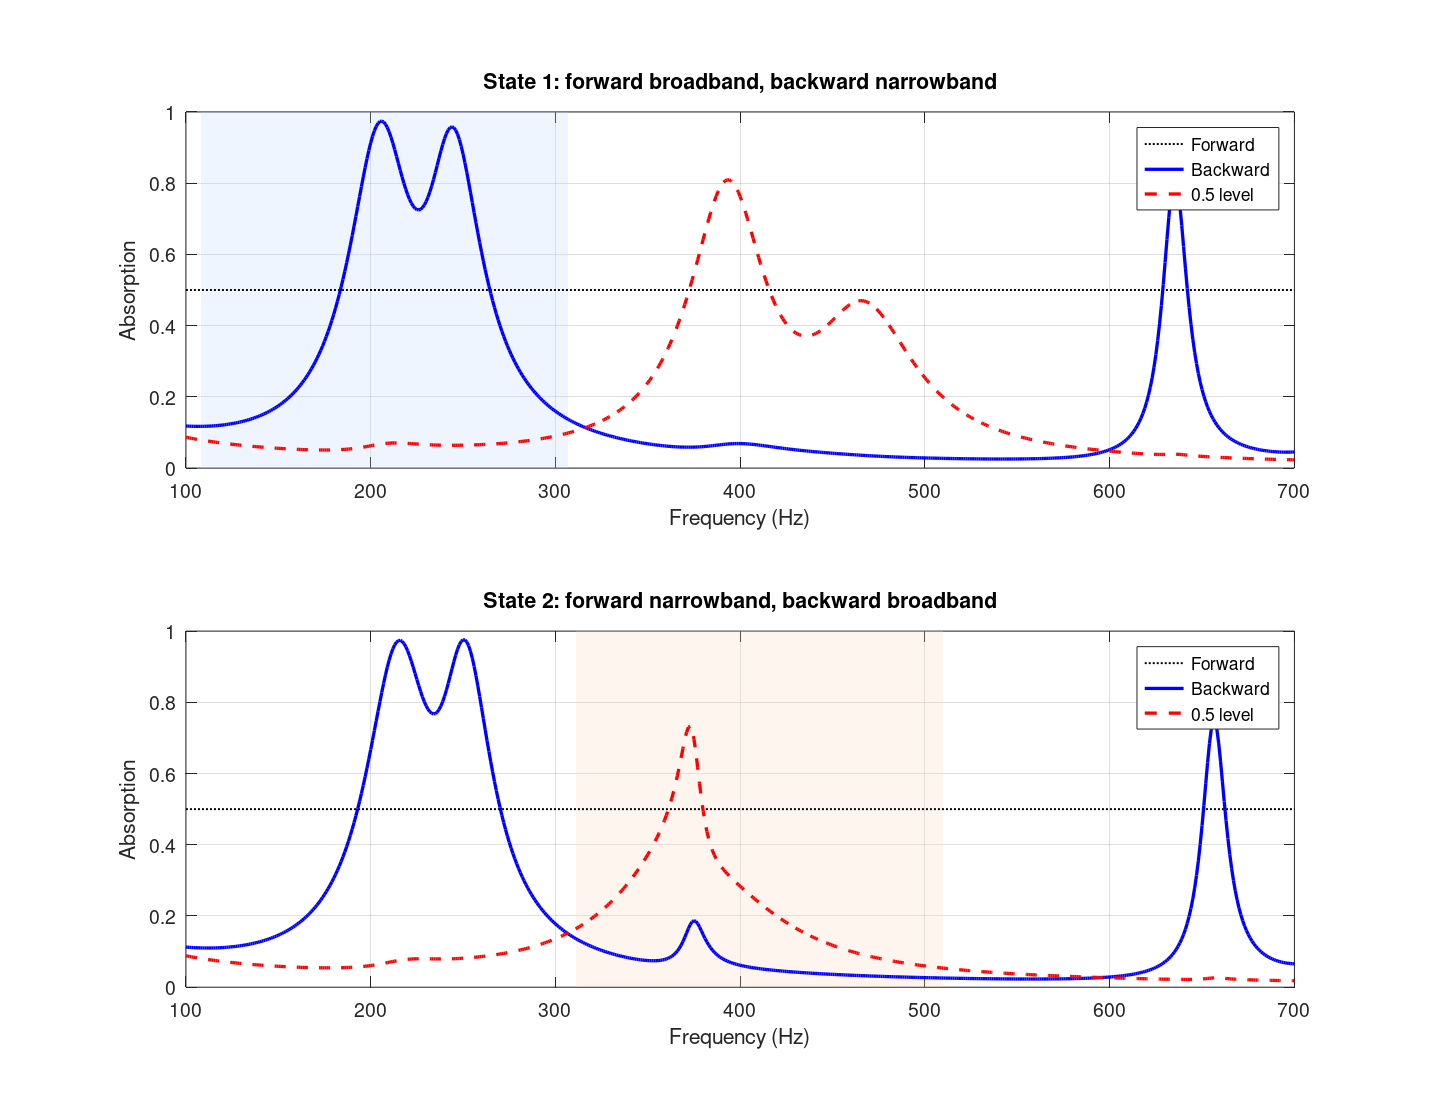
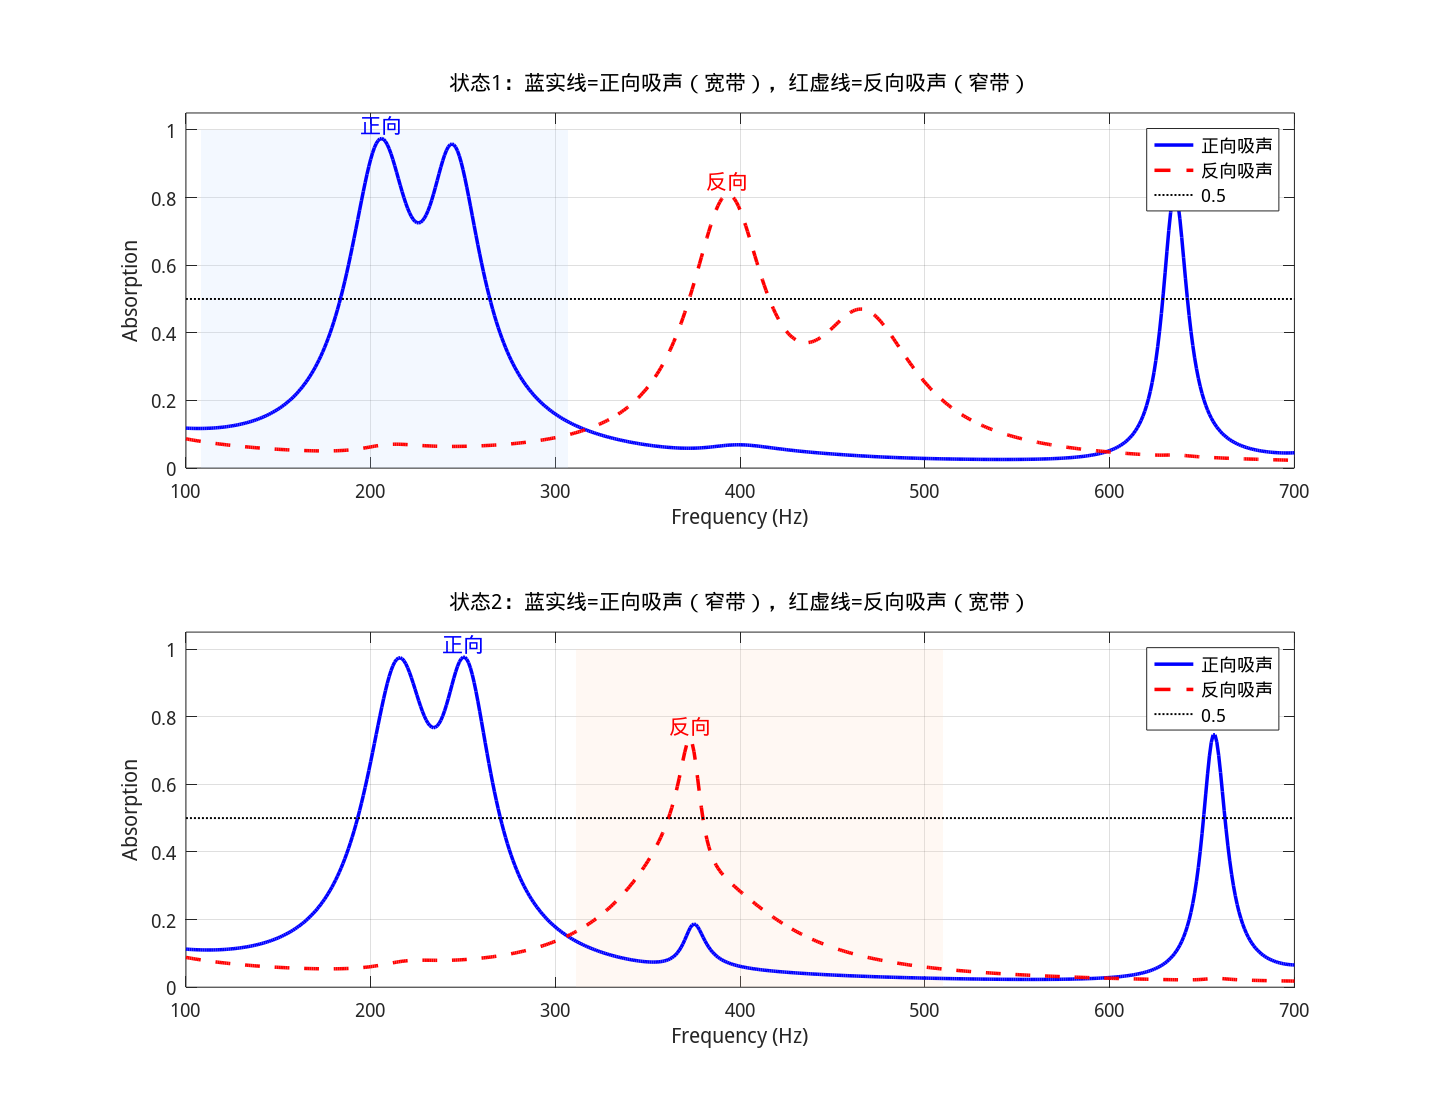
Bind each absorption curve to its own legend entry.
The bandwidth figure now labels the solid blue line as forward absorption and the dashed red line as backward absorption, with the peak of each curve marked on the trace.

diff --git a/acoustic_nn/dual_mlp_two_state.m b/acoustic_nn/dual_mlp_two_state.m
@@ -270,30 +270,30 @@ plotState(fPlot, af2, ab2, extra2, '(2) 300-500 Hz 反向高出 0.4');
 
 fig = figure('Color', 'w', 'Position', [120, 40, 980, 760]);
 subplot(2, 1, 1);
-plot(fPlot, af1, 'b-', 'LineWidth', 1.7);
 hold on;
-plot(fPlot, ab1, 'r--', 'LineWidth', 1.7);
 markBand();
+hF = plot(fPlot, af1, 'b-', 'LineWidth', 1.7);
+hB = plot(fPlot, ab1, 'r--', 'LineWidth', 1.7);
 grid on;
 box on;
 xlabel('Frequency (Hz)');
 ylabel('Absorption');
 xlim([fPlot(1), fPlot(end)]);
-title('(a) State 1, forward mean exceeds backward by 0.4');
-legend('Forward', 'Backward', 'Location', 'best');
+title('状态1：蓝实线=正向吸声，红虚线=反向吸声');
+legend([hF, hB], {'正向吸声', '反向吸声'}, 'Location', 'northeast');
 
 subplot(2, 1, 2);
-plot(fPlot, af2, 'b-', 'LineWidth', 1.7);
 hold on;
-plot(fPlot, ab2, 'r--', 'LineWidth', 1.7);
 markBand();
+hF = plot(fPlot, af2, 'b-', 'LineWidth', 1.7);
+hB = plot(fPlot, ab2, 'r--', 'LineWidth', 1.7);
 grid on;
 box on;
 xlabel('Frequency (Hz)');
 ylabel('Absorption');
 xlim([fPlot(1), fPlot(end)]);
-title('(b) State 2, backward mean exceeds forward by 0.4');
-legend('Forward', 'Backward', 'Location', 'best');
+title('状态2：蓝实线=正向吸声，红虚线=反向吸声');
+legend([hF, hB], {'正向吸声', '反向吸声'}, 'Location', 'northeast');
 
 figPath = fullfile(outDir, 'two_state_absorption.png');
 try
@@ -782,39 +782,45 @@ fprintf('状态 2 腔深 (mm)，正向窄带、反向宽带\n');
 disp(reshape(hBest2, 2, 4).' * 1e3);
 
 fig = figure('Color', 'w', 'Position', [80, 40, 980, 760]);
+if exist('OCTAVE_VERSION', 'builtin')
+    set(fig, 'defaultaxesfontname', 'WenQuanYi Micro Hei');
+    set(fig, 'defaulttextfontname', 'WenQuanYi Micro Hei');
+end
 subplot(2, 1, 1);
-plot(fPlot, af1, 'b-', 'LineWidth', 1.7);
 hold on;
-plot(fPlot, ab1, 'r--', 'LineWidth', 1.7);
-plot(fPlot([1, end]), [0.5, 0.5], 'k:', 'LineWidth', 1.0);
 patch([fLo1, fHi1, fHi1, fLo1], [0, 0, 1, 1], [0.75, 0.85, 1], ...
-    'FaceAlpha', 0.25, 'EdgeColor', 'none', 'HandleVisibility', 'off');
-children = get(gca, 'Children');
-set(gca, 'Children', [children(2:end); children(1)]);
+    'FaceAlpha', 0.18, 'EdgeColor', 'none', 'HandleVisibility', 'off');
+hF1 = plot(fPlot, af1, 'b-', 'LineWidth', 1.8);
+hB1 = plot(fPlot, ab1, 'r--', 'LineWidth', 1.8);
+hL1 = plot(fPlot([1, end]), [0.5, 0.5], 'k:', 'LineWidth', 1.0);
+markPeak(fPlot, af1, '正向', 'b');
+markPeak(fPlot, ab1, '反向', 'r');
 grid on;
 box on;
 xlim([fPlot(1), fPlot(end)]);
+ylim([0, 1.05]);
 xlabel('Frequency (Hz)');
 ylabel('Absorption');
-title('State 1: forward broadband, backward narrowband');
-legend('Forward', 'Backward', '0.5 level', 'Location', 'northeast');
+title('状态1：蓝实线=正向吸声（宽带），红虚线=反向吸声（窄带）');
+legend([hF1, hB1, hL1], {'正向吸声', '反向吸声', '0.5'}, 'Location', 'northeast');
 
 subplot(2, 1, 2);
-plot(fPlot, af2, 'b-', 'LineWidth', 1.7);
 hold on;
-plot(fPlot, ab2, 'r--', 'LineWidth', 1.7);
-plot(fPlot([1, end]), [0.5, 0.5], 'k:', 'LineWidth', 1.0);
 patch([fLo2, fHi2, fHi2, fLo2], [0, 0, 1, 1], [1, 0.85, 0.75], ...
-    'FaceAlpha', 0.25, 'EdgeColor', 'none', 'HandleVisibility', 'off');
-children = get(gca, 'Children');
-set(gca, 'Children', [children(2:end); children(1)]);
+    'FaceAlpha', 0.18, 'EdgeColor', 'none', 'HandleVisibility', 'off');
+hF2 = plot(fPlot, af2, 'b-', 'LineWidth', 1.8);
+hB2 = plot(fPlot, ab2, 'r--', 'LineWidth', 1.8);
+hL2 = plot(fPlot([1, end]), [0.5, 0.5], 'k:', 'LineWidth', 1.0);
+markPeak(fPlot, af2, '正向', 'b');
+markPeak(fPlot, ab2, '反向', 'r');
 grid on;
 box on;
 xlim([fPlot(1), fPlot(end)]);
+ylim([0, 1.05]);
 xlabel('Frequency (Hz)');
 ylabel('Absorption');
-title('State 2: forward narrowband, backward broadband');
-legend('Forward', 'Backward', '0.5 level', 'Location', 'northeast');
+title('状态2：蓝实线=正向吸声（窄带），红虚线=反向吸声（宽带）');
+legend([hF2, hB2, hL2], {'正向吸声', '反向吸声', '0.5'}, 'Location', 'northeast');
 
 figPath = fullfile(outDir, 'two_state_bandwidth.png');
 resultPath = fullfile(outDir, 'two_state_bandwidth.mat');
@@ -966,31 +972,37 @@ end
 function plotState(f, af, ab, extra, name)
 figure('Color', 'w', 'Position', [150, 60, 1050, 900]);
 subplot(2, 1, 1);
-plot(f, af, 'b-', 'LineWidth', 1.7);
 hold on;
-plot(f, extra.Rf, 'r--', 'LineWidth', 1.7);
-plot(f, extra.Tr, 'k:', 'LineWidth', 1.7);
 markBand();
+hA = plot(f, af, 'b-', 'LineWidth', 1.7);
+hR = plot(f, extra.Rf, 'r--', 'LineWidth', 1.7);
+hT = plot(f, extra.Tr, 'k:', 'LineWidth', 1.7);
 xlim([f(1), f(end)]);
-title(['(a) Forward incidence  ' name]);
+title(['正向入射  ' name]);
 ylabel('Coefficient');
-legend('Absorption', 'Reflection', 'Transmission', 'Location', 'best');
+legend([hA, hR, hT], {'吸声', '反射', '透射'}, 'Location', 'northeast');
 grid on;
 box on;
 
 subplot(2, 1, 2);
-plot(f, ab, 'b-', 'LineWidth', 1.7);
 hold on;
-plot(f, extra.Rb, 'r--', 'LineWidth', 1.7);
-plot(f, extra.Tr, 'k:', 'LineWidth', 1.7);
 markBand();
+hA = plot(f, ab, 'b-', 'LineWidth', 1.7);
+hR = plot(f, extra.Rb, 'r--', 'LineWidth', 1.7);
+hT = plot(f, extra.Tr, 'k:', 'LineWidth', 1.7);
 xlim([f(1), f(end)]);
-title(['(b) Backward incidence  ' name]);
+title(['反向入射  ' name]);
 xlabel('Frequency (Hz)');
 ylabel('Coefficient');
-legend('Absorption', 'Reflection', 'Transmission', 'Location', 'best');
+legend([hA, hR, hT], {'吸声', '反射', '透射'}, 'Location', 'northeast');
 grid on;
 box on;
+end
+
+function markPeak(f, a, label, color)
+[pk, ix] = max(a);
+text(f(ix), min(pk + 0.04, 1.02), label, 'Color', color, ...
+    'HorizontalAlignment', 'center', 'FontSize', 11);
 end
 
 function markBand()
